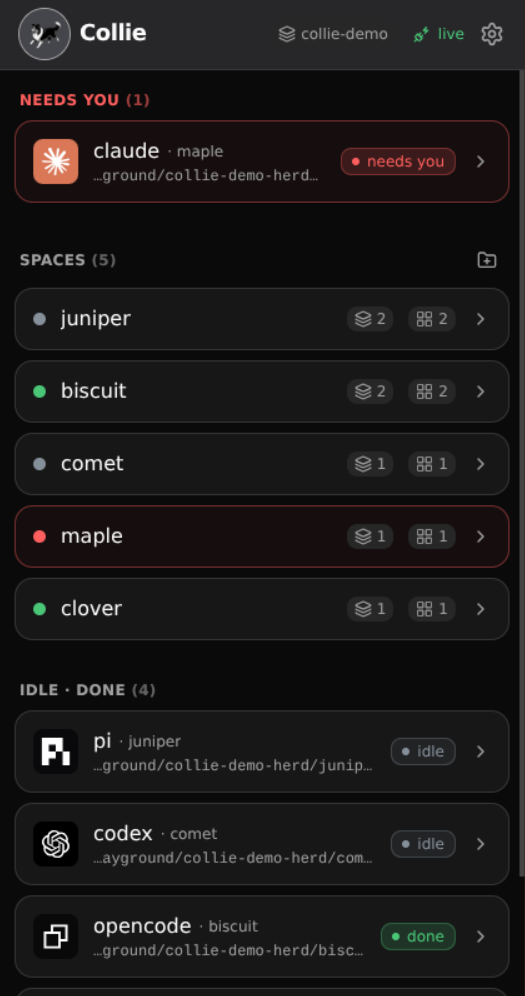
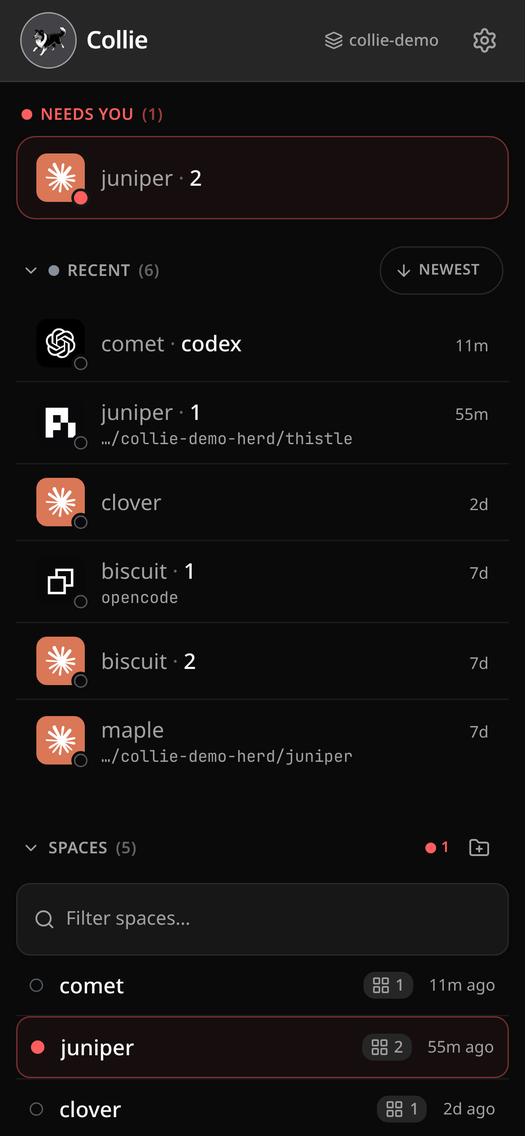
docs(readme): refresh demo screenshots for current UI, add AskUserQuestion + Keys
The four demo screenshots were from 0.12.1 and no longer matched the current
UI. Retook them on 0.24.1 against a live phone (iPhone 14 viewport) session,
and added two new cells for AskUserQuestion up-leveling and the special-keys
pad — capabilities the old screenshot set never showed.

diff --git a/README.md b/README.md
@@ -39,13 +39,17 @@ https://github.com/user-attachments/assets/6334eab2-d503-4cfe-b770-80c4517e9482
 
 A run through the herd from a phone: the dashboard floats the agent that **needs you** to the top,
 you drill into a space's tabs and panes (long-press a pane pill or a tab chip to rename or close it —
-and a Claude pane shows the name you gave it with `/rename`), switch between herds, and pick up a push
-notification the moment an agent is waiting on input.
+and a Claude pane shows the name you gave it with `/rename`), answer an `AskUserQuestion` prompt with
+a tap, switch between herds, and pick up a push notification the moment an agent is waiting on input.
 
 <table>
   <tr>
-    <td align="center" width="50%"><img src="assets/dashboard.png" alt="Collie dashboard — Needs you, Spaces, Idle · done" width="250"><br><sub><b>Dashboard</b> — agents needing you float to the top</sub></td>
+    <td align="center" width="50%"><img src="assets/dashboard.png" alt="Collie dashboard — Needs you, Recent, Spaces" width="250"><br><sub><b>Dashboard</b> — agents needing you float to the top</sub></td>
+    <td align="center" width="50%"><img src="assets/ask-question.png" alt="A Claude AskUserQuestion prompt up-leveled into tappable buttons" width="250"><br><sub><b>Ask</b> — Claude's own questions become tappable buttons</sub></td>
+  </tr>
+  <tr>
     <td align="center" width="50%"><img src="assets/space-detail.png" alt="A space's tabs and panes" width="250"><br><sub><b>Space</b> — its tabs and panes, deep-linkable</sub></td>
+    <td align="center" width="50%"><img src="assets/keys.png" alt="The special-keys pad — arrows, Esc, Tab, Ctrl, Alt, Shift" width="250"><br><sub><b>Keys</b> — the special-keys pad, no chords to remember</sub></td>
   </tr>
   <tr>
     <td align="center" width="50%"><img src="assets/session-switcher.png" alt="Session switcher" width="250"><br><sub><b>Session switcher</b> — one bridge, every herd</sub></td>
